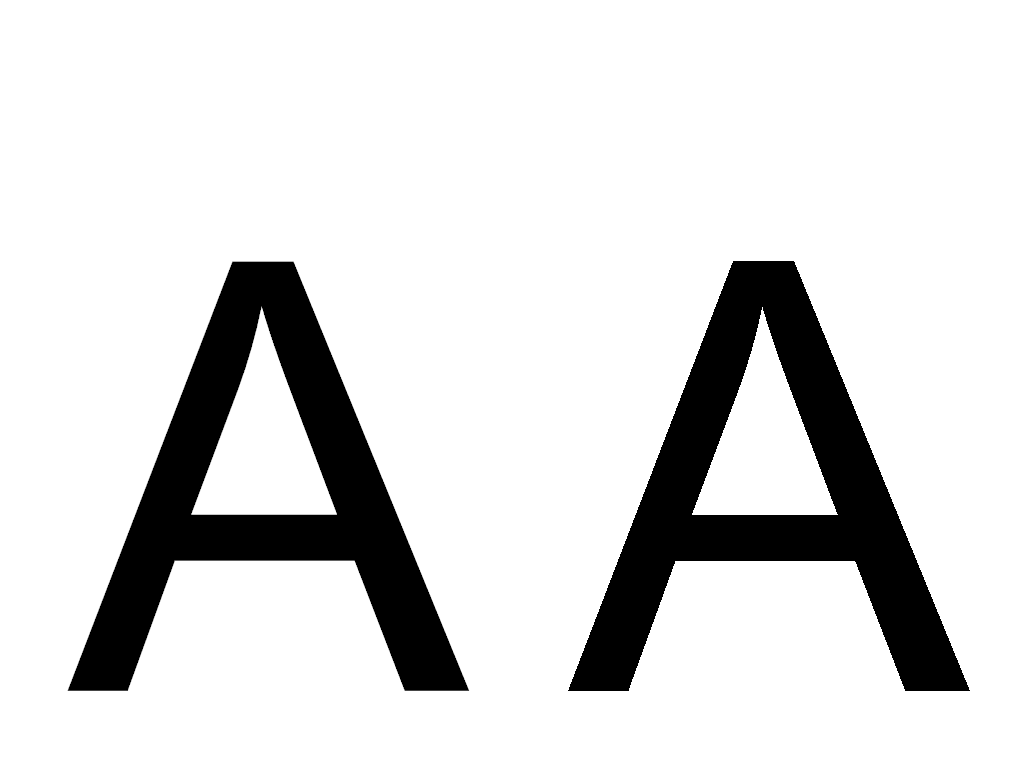
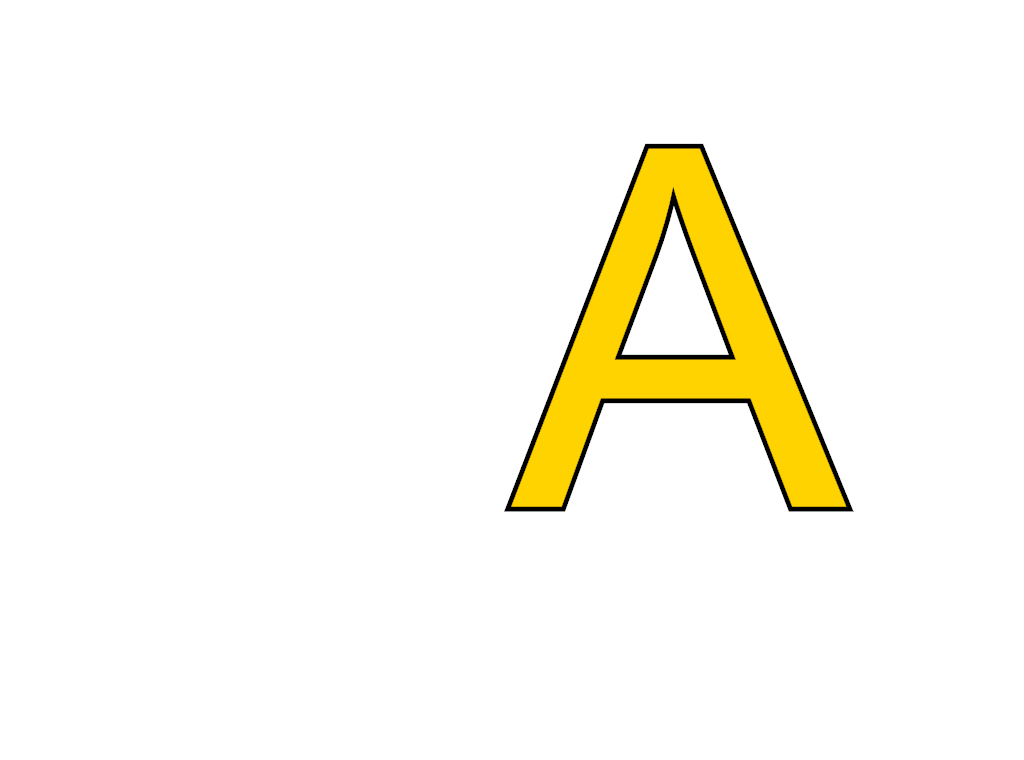
Trying to fix aliasing.

Changed region(s): [[0.5, 0.1816, 0.9688, 0.9079], [0.0625, 0.3329, 0.4688, 0.9079]]

diff --git a/Project/Classes/Text.cpp b/Project/Classes/Text.cpp
@@ -157,7 +157,7 @@ void Text::Initialize() {
 	//		D3D11_TEXTURE_ADDRESS_MODE mode = D3D11_TEXTURE_ADDRESS_CLAMP
 	//	);
 
-	manager->createSamplerState("CoolSampler", D3D11_FILTER_MIN_MAG_MIP_POINT, D3D11_TEXTURE_ADDRESS_WRAP);
+	manager->createSamplerState("CoolSampler", D3D11_FILTER_MIN_MAG_MIP_LINEAR, D3D11_TEXTURE_ADDRESS_WRAP);
 
 	// Initialize Systems
 	InitializeDirect2D();
@@ -206,7 +206,7 @@ void Text::InitializeDirect2D()
 	resources.shaderResourceViews["NULL"] = nullptr;
 
 	// Brushes
-	CheckStatus(m_d2dRenderTarget->CreateSolidColorBrush(D2D1::ColorF(D2D1::ColorF::Black), &m_blackBrush), L"CreateSolidColorBrush");
+	CheckStatus(m_d2dRenderTarget->CreateSolidColorBrush(D2D1::ColorF(D2D1::ColorF::White), &m_blackBrush), L"CreateSolidColorBrush");
 	CheckStatus(m_d2dRenderTarget->CreateSolidColorBrush(D2D1::ColorF(D2D1::ColorF::Orange), &m_orangeBrush), L"CreateSolidColorBrush");
 
 	// Create the render target view.
@@ -225,13 +225,8 @@ void Text::InitializeDirect2D()
 	);
 
 	// Setup the description of the shader resource view.
-	D3D11_SHADER_RESOURCE_VIEW_DESC shaderResourceViewDesc;
-	shaderResourceViewDesc.Format = texDesc.Format;
-	shaderResourceViewDesc.ViewDimension = D3D11_SRV_DIMENSION_TEXTURE2D;
-	shaderResourceViewDesc.Texture2D.MostDetailedMip = 0;
-	shaderResourceViewDesc.Texture2D.MipLevels = 1;
 	manager->createTexture2D(
-		"Text",
+		"Text2",
 		texDesc.Format,
 		manager->getWindowWidth(),
 		manager->getWindowHeight(),
@@ -239,6 +234,44 @@ void Text::InitializeDirect2D()
 		true,
 		d2dTextureTarget
 	);
+
+	// With mipmaps
+	D3D11_SHADER_RESOURCE_VIEW_DESC shaderResourceViewDesc;
+	shaderResourceViewDesc.Format = texDesc.Format;
+	shaderResourceViewDesc.ViewDimension = D3D11_SRV_DIMENSION_TEXTURE2D;
+	shaderResourceViewDesc.Texture2D.MostDetailedMip = 0;
+	shaderResourceViewDesc.Texture2D.MipLevels = 1;
+	texDesc.ArraySize = 1;
+	texDesc.BindFlags = D3D11_BIND_RENDER_TARGET | D3D11_BIND_SHADER_RESOURCE;
+	texDesc.CPUAccessFlags = 0;
+	texDesc.Format = DXGI_FORMAT_R32G32B32A32_FLOAT;
+	texDesc.Height = manager->getWindowHeight();
+	texDesc.Width = manager->getWindowWidth();
+	texDesc.MipLevels = 1;
+	texDesc.MiscFlags = D3D11_RESOURCE_MISC_GENERATE_MIPS;
+	//texDesc.SampleDesc.Count = 1;
+	//texDesc.SampleDesc.Quality = 0;
+	texDesc.Usage = D3D11_USAGE_DEFAULT;
+	CheckStatus(gdevice->CreateTexture2D(&texDesc, NULL, &tempD2DTexture), L"CreateTexture2D");
+
+	ID3D11ShaderResourceView* srv;
+	D3D11_SHADER_RESOURCE_VIEW_DESC srvDesc;
+	srvDesc.Format = texDesc.Format;
+	srvDesc.ViewDimension = D3D11_SRV_DIMENSION_TEXTURE2D;
+	srvDesc.Texture2D.MostDetailedMip = 0;
+	srvDesc.Texture2D.MipLevels = -1;
+	CheckStatus(gdevice->CreateShaderResourceView(tempD2DTexture, &srvDesc, &srv), L"CreateShaderResourceView");
+	resources.shaderResourceViews["Text"] = srv;
+
+	//manager->createTexture2D(
+	//	"Text",
+	//	texDesc.Format,
+	//	manager->getWindowWidth(),
+	//	manager->getWindowHeight(),
+	//	false,
+	//	true,
+	//	tempD2DTexture
+	//);
 }
 
 void Text::InitializeDirectWrite()
@@ -291,8 +324,6 @@ void Text::RenderText()
 		m_orangeBrush			// The brush used to draw the text.
 	);
 	m_d2dRenderTarget->EndDraw();
-
-	manager->saveImage("Fonts/Images/Text.png", d2dTextureTarget);
 }
 
 void Text::DirectWriteEdge()
@@ -400,18 +431,12 @@ void Text::EdgeRender()
 	// Clear
 	m_d2dRenderTarget->BeginDraw();
 	m_d2dRenderTarget->SetTransform(D2D1::IdentityMatrix());
-	m_d2dRenderTarget->Clear(D2D1::ColorF(D2D1::ColorF::White));
+	m_d2dRenderTarget->Clear(NULL);
 
 	// // Draw text with outline
-	m_d2dRenderTarget->SetAntialiasMode(D2D1_ANTIALIAS_MODE::D2D1_ANTIALIAS_MODE_ALIASED);
-	m_d2dRenderTarget->SetTransform(D2D1::Matrix3x2F::Translation(m_width / 1.8f, m_height / 1.1f));
-	//m_d2dRenderTarget->DrawGeometry(m_pathGeometry, m_blackBrush, m_edgeSize);
-	m_d2dRenderTarget->FillGeometry(m_pathGeometry, m_blackBrush);
-
-	m_d2dRenderTarget->SetAntialiasMode(D2D1_ANTIALIAS_MODE::D2D1_ANTIALIAS_MODE_PER_PRIMITIVE);
-	m_d2dRenderTarget->SetTransform(D2D1::Matrix3x2F::Translation(m_width / 15.0f, m_height / 1.1f));
-	//m_d2dRenderTarget->DrawGeometry(m_pathGeometry, m_blackBrush, m_edgeSize);
-	m_d2dRenderTarget->FillGeometry(m_pathGeometry, m_blackBrush);
+	m_d2dRenderTarget->SetTransform(D2D1::Matrix3x2F::Translation(m_width / 2.0f, m_height / 1.5f));
+	m_d2dRenderTarget->DrawGeometry(m_pathGeometry, m_blackBrush, m_edgeSize);
+	m_d2dRenderTarget->FillGeometry(m_pathGeometry, m_orangeBrush);
 
 	//// Draw with Glyph function
 	//D2D1_POINT_2F baseline;
@@ -421,7 +446,8 @@ void Text::EdgeRender()
 
 	m_d2dRenderTarget->EndDraw();
 
-	manager->saveImage("Fonts/Images/TextOutline2.png", d2dTextureTarget);
+	gdeviceContext->CopyResource(tempD2DTexture, d2dTextureTarget);
+	gdeviceContext->GenerateMips(resources.shaderResourceViews["Text"]);
 }
 
 ID3D11ShaderResourceView * Text::GetText()

diff --git a/Project/Classes/GraphicsManager.cpp b/Project/Classes/GraphicsManager.cpp
@@ -63,7 +63,7 @@ void GraphicsManager::Render() {
 		break;
 	case ALL:
 		ApplicationContext::GetInstance().GetTextObject()->Render();
-		//ApplicationContext::GetInstance().GetCompositingObject()->Render();
+		ApplicationContext::GetInstance().GetCompositingObject()->Render();
 		//ApplicationContext::GetInstance().GetToneMappingObject()->Render();
 		//ApplicationContext::GetInstance().GetAntiAliasingObject()->Render();
 		//ApplicationContext::GetInstance().GetLightningObject()->Render();
@@ -117,7 +117,7 @@ HRESULT GraphicsManager::CreateDirect3DContext() {
 
 	HRESULT hr = D3D11CreateDeviceAndSwapChain(
 		NULL,
-		D3D_DRIVER_TYPE_HARDWARE,
+		D3D_DRIVER_TYPE_WARP,
 		NULL,
 		D3D11_CREATE_DEVICE_DEBUG | D3D11_CREATE_DEVICE_BGRA_SUPPORT | D3D11_CREATE_DEVICE_SINGLETHREADED,
 		NULL,

diff --git a/Project/Classes/Text.h b/Project/Classes/Text.h
@@ -36,7 +36,7 @@ private:
 	// Values
 	unsigned int m_height;
 	unsigned int m_width;
-	float m_textSize = 600.0f;
+	float m_textSize = 500.0f;
 	float m_edgeSize = 100.0f;
 
 	// Direct2D
@@ -66,6 +66,7 @@ private:
 	IDWriteFontFace1* m_fontFace = nullptr;
 	IDWriteFontFile* m_fontFiles = nullptr;
 	ID2D1StrokeStyle* m_strokeStyle = nullptr;
+	ID3D11Texture2D* tempD2DTexture = nullptr;
 	UINT* m_codePoints = nullptr;
 	UINT16* m_glyphIndices = nullptr;
 	int* m_advances = nullptr;

diff --git a/Project/Classes/Compositing.cpp b/Project/Classes/Compositing.cpp
@@ -210,7 +210,7 @@ void Compositing::Initialize() {
 	//		D3D11_TEXTURE_ADDRESS_MODE mode = D3D11_TEXTURE_ADDRESS_CLAMP
 	//	);
 
-	manager->createSamplerState("SamplerWrap", D3D11_FILTER_MAXIMUM_ANISOTROPIC, D3D11_TEXTURE_ADDRESS_WRAP);
+	manager->createSamplerState("SamplerWrap", D3D11_FILTER_MIN_MAG_MIP_LINEAR, D3D11_TEXTURE_ADDRESS_WRAP);
 }
 
 void Compositing::SetText(ID3D11ShaderResourceView * text)
